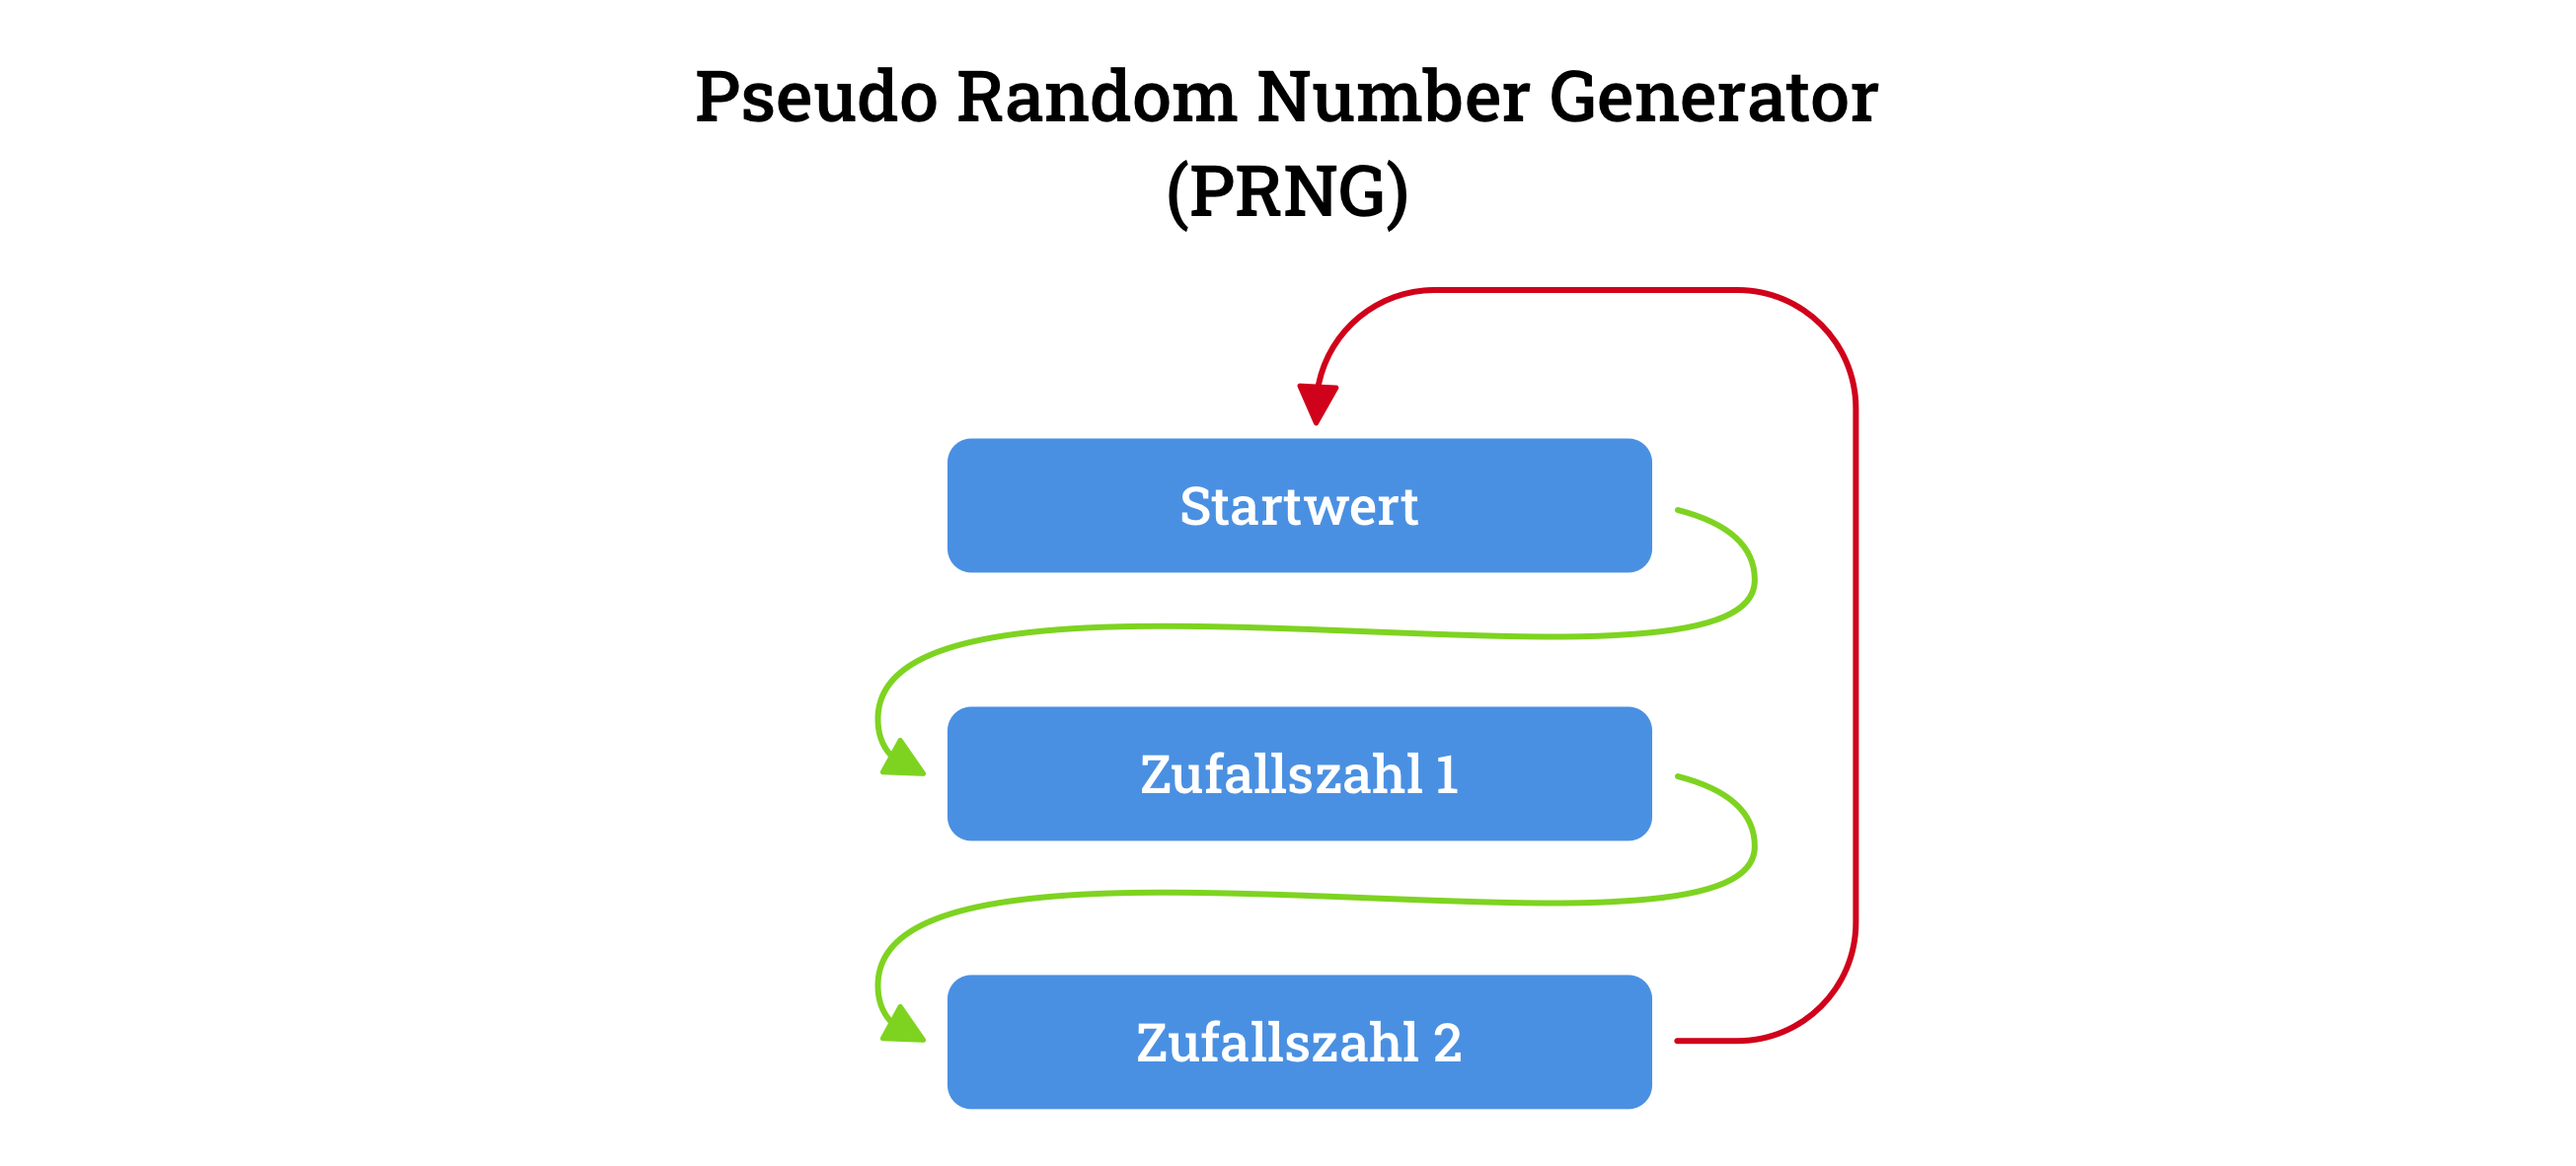
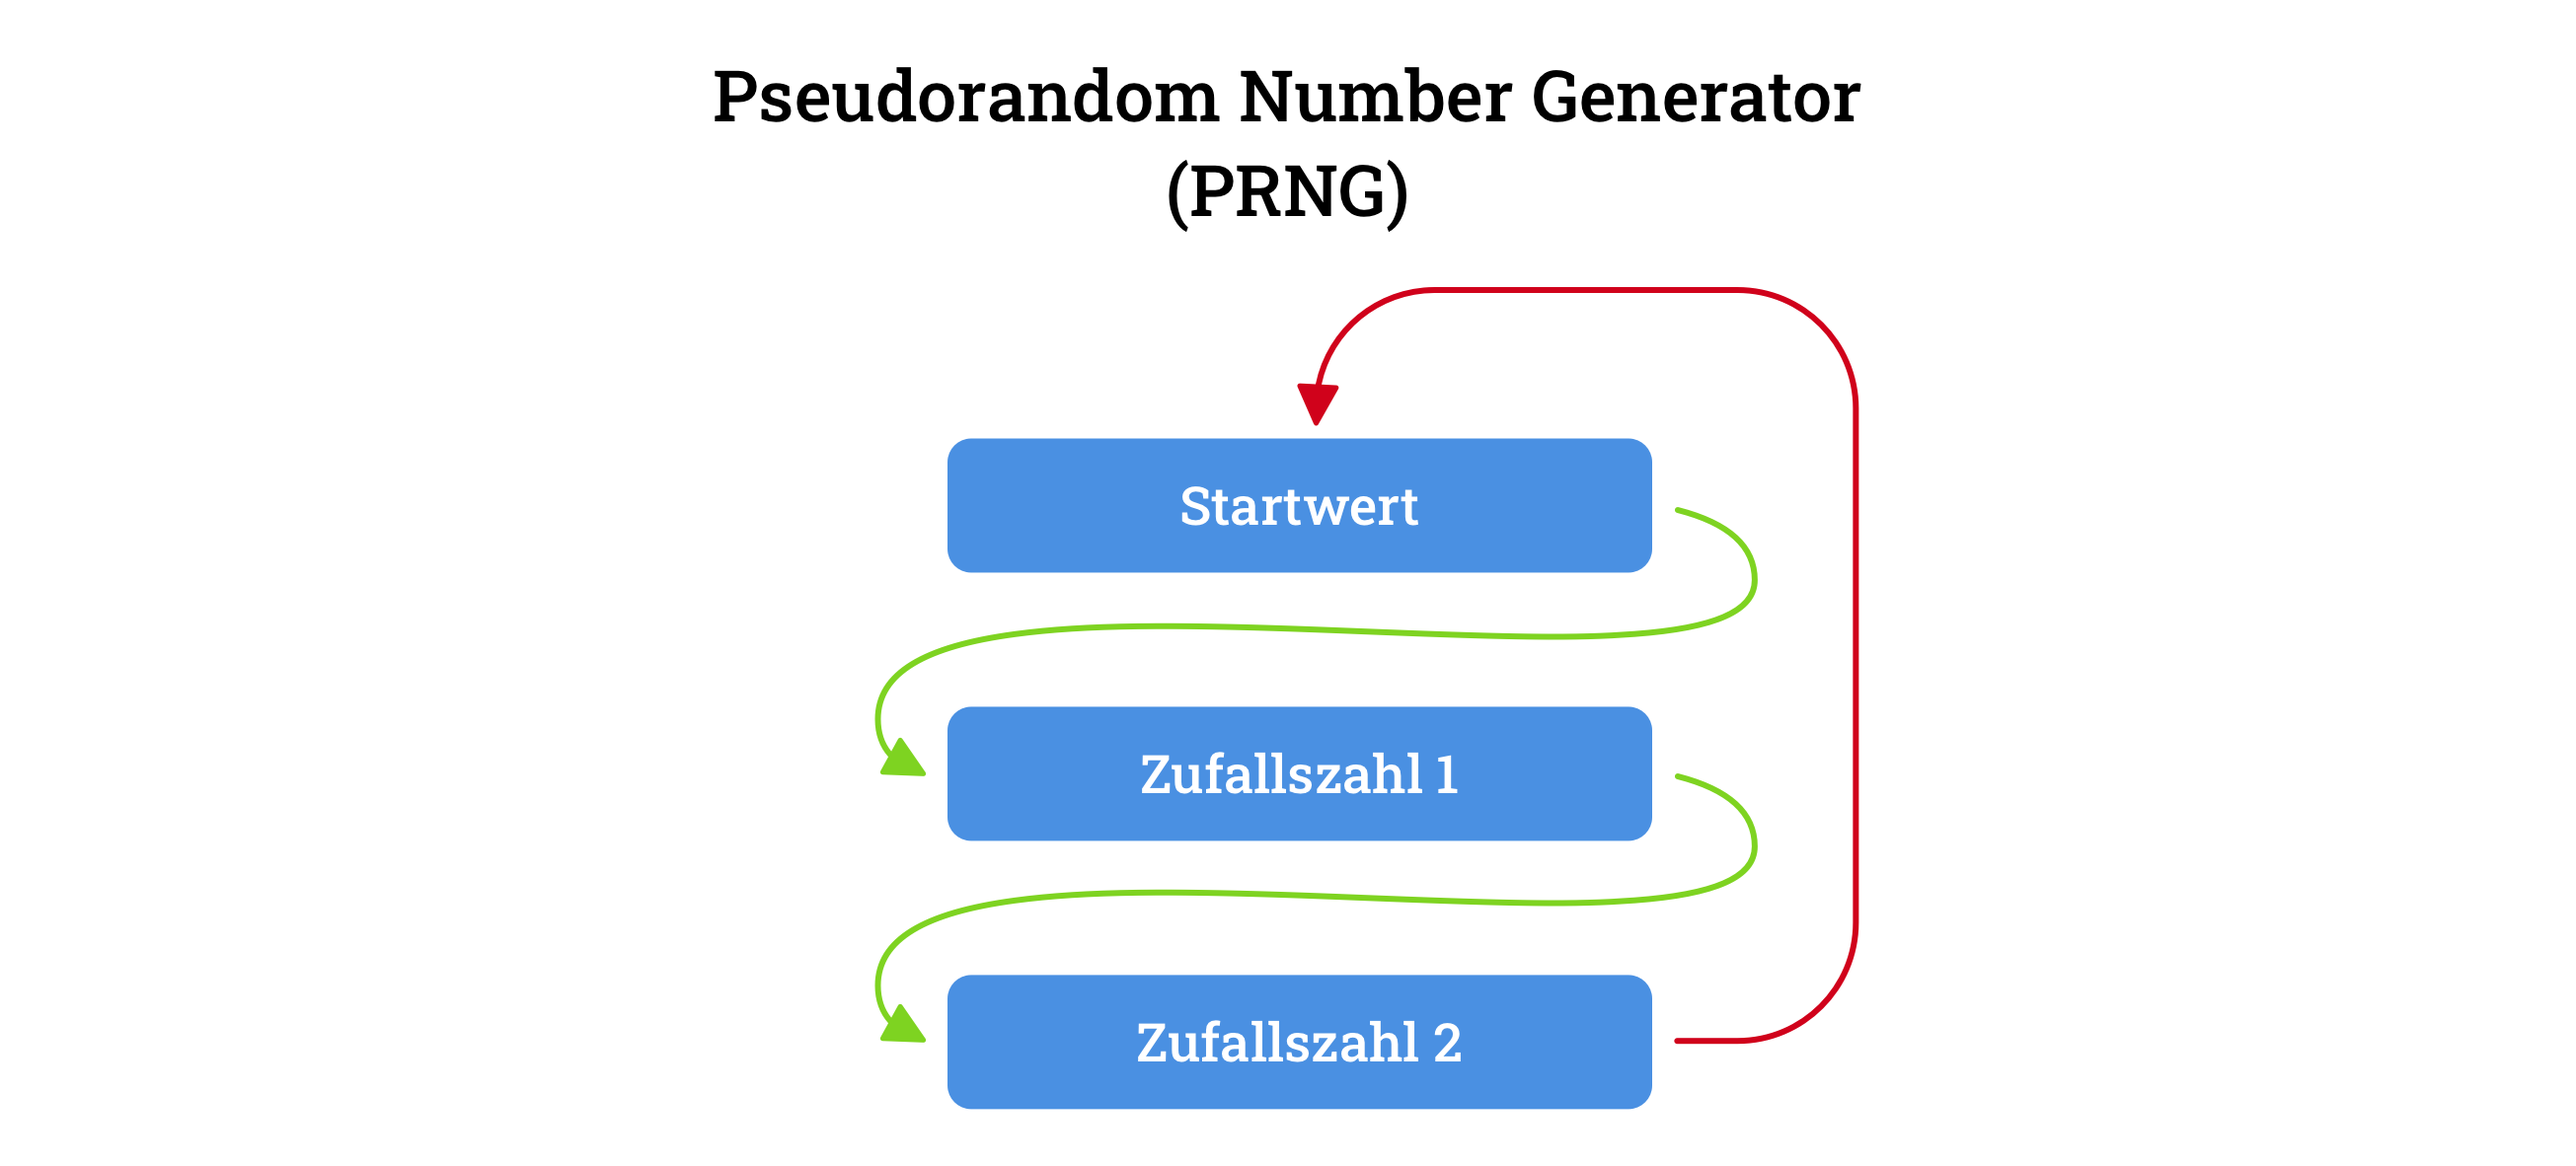
Update 8. Juli 2020 - 2

Changed region(s): [[0.2483, 0.0609, 0.7448, 0.1218]]

diff --git a/index.html b/index.html
@@ -166,15 +166,13 @@ signatur <span class="syntax-all syntax-keyword">=</span> <span class="syntax-al
 
 <p>In all meinen Code Snippets werde ich die Python Kryptographie Bibliothek „<a href="https://pypi.org/project/pycrypto/">pycrypto</a>” verwenden, da sie eine große Nutzerbasis aufweist und ziemlich einfach zu verwenden ist. Generell sollte man, beim Thema Sicherheit, allerdings vorsichtig sein welchen Code oder welche Bibliothek man verwendet. Die „pycrypto” Bibliothek scheint sehr akzeptiert zu sein, zeigt aber seid einigen Jahren keine Aktivität mehr auf. <a href="https://github.com/pycrypto/pycrypto">GitHub</a></p>
 
-<h5>Public-Private-Key</h5>
+<h5>Public-Key Verfahren</h5>
 
-<p>Das Public-Private-Key Verfahren ist ein Verschlüsslungsverfahren das Nachricht durch das generieren eines Schlüsselpaares verschlüsselt. <br/>Für dieses Verfahren werden zwei Schlüssel ein <!--<img class="icon" src="https://img.icons8.com/fluent/72/grand-master-key.png">--> <em>privater</em> und ein <!--<img class="icon" src="https://img.icons8.com/fluent/72/key-security.png">--> <em>öffentlicher</em> Schlüssel generiert.</p>
+<p>Das Public-Key Verfahren ist ein Verschlüsslungsverfahren das Nachricht durch das generieren eines Schlüsselpaares verschlüsselt. <br/>Für dieses Verfahren werden zwei Schlüssel ein <img class="icon" src="https://img.icons8.com/fluent/72/grand-master-key.png"> <em>privater</em> und ein <img class="icon" src="https://img.icons8.com/fluent/72/key-security.png"> <em>öffentlicher</em> Schlüssel generiert.</p>
 
-<p>Wie die Namen bereits andeuten ist der <!--<img class="icon" src="https://img.icons8.com/fluent/72/grand-master-key.png">--> Privat-Key unter allen umständen für sich zu behalten. Er ist der Master-Key aus welchem sich dann der öffentliche Schlüssel ableiten lässt.</p>
+<p>Wie die Namen bereits andeuten ist der Privat-Key unter allen umständen für sich zu behalten. Er ist der Master-Key aus welchem sich dann der öffentliche Schlüssel ableiten lässt.</p>
 
-<p>Man spricht von einem <em>asymmetrischen</em> Verschlüsselungsverfahren.</p>
-
-<p></p>
+<p>Man spricht von einem <em>asymmetrischen</em> Verschlüsselungsverfahren. Da die beiden Kommunikationsteilnehmer keinen gemeinsamen, geheimen Schlüssel benötigen. </p>
 
 <p>Der Private Schlüssel ist eine zufällige Abfolge an Zeichen. Für das <em>RSA-Kryptosystem</em> kommen Schlüssel mit einer Länge von 256 <a href="#keyword-byte">Bytes</a> oder 512 <a href="#keyword-byte">Bytes</a> zum Einsatz.</p>
 
@@ -207,11 +205,32 @@ signatur <span class="syntax-all syntax-keyword">=</span> <span class="syntax-al
 
 <h6>Keypair Generieren</h6>
 
-<p>Für die Erstellung des privaten Schlüssel wird ein Zufallswert benötigt. Man kann dies durch das werfen einer Münzen auf ein Blatt Papier machen. Wer allerdings nicht 2048 (RSA) mal die Münze (0 oder 1) werfen möchte, der sollte sich diesen Zufallswert mit dem Computer generieren lassen.<br/>Jedoch haben Computer, mit ihren sonst so vorhersehbareren Programmabläufen so ihre Probleme eine Zufallszahl zu generieren, weswegen die Generatoren auch <em>Pseudo Random Number Generators</em> (kurz PRNG) gennant werden.<br/>Aus einem Startwert „generieren” bzw. berechnen die Algorithmen jedes mal einen neuen Zufallswert, welcher dann wieder für den nächsten Zufallswert verwendet wird. Nach einer gewissen Periode wiederholen sich diese Zahlen weswegen es sich um einen <em>Deterministischen</em> Zufallsgenerator handelt. </p>
+<p>Für die Erstellung des privaten Schlüssel wird ein Zufallswert benötigt. Man kann dies durch das werfen einer Münzen auf ein Blatt Papier machen. Wer allerdings nicht 2048 (RSA) mal die Münze (0 oder 1) werfen möchte, der sollte sich diesen Zufallswert mit dem Computer generieren lassen.<br/>Jedoch haben Computer, mit ihren sonst so vorhersehbareren Programmabläufen so ihre Probleme eine Zufallszahl zu generieren, weswegen die Generatoren auch <em>Pseudorandom Number Generators</em> (kurz PRNG) gennant werden.<br/>Aus einem Startwert <em>Seed</em> „generieren” bzw. berechnen die Algorithmen jedes mal einen neuen Zufallswert, welcher dann wieder für den nächsten Zufallswert verwendet wird. Nach einer gewissen Periode wiederholen sich diese Zahlen weswegen es sich um einen <em>Deterministischen</em> Zufallsgenerator handelt. Dies generierten Zahlen sehen nur Zufällig aus. Bis sie sich wiederholen → <em>Pseudo</em>. <sup><a id="ffn19" href="#fn19" class="footnote">19</a></sup></p>
 
 <figure><img src="PRNG.png"/></figure>
 
-<p><sup><a id="ffn19" href="#fn19" class="footnote">19</a></sup></p>
+<p><em>Nicht deterministisch</em> werden vom Computer generierte Zahlen erst wenn ein äusserer Einfluss als Zufallsquelle mit einbezogen wird. Ein nicht deterministischer Zufallszahlengenerator gilt dann als „kryptographisch”. <br/>Einige mögliche Bezugsquellen für in Betriebssystemen sind <sup><a id="ffn20" href="#fn20" class="footnote">20</a></sup>:</p>
+
+<ul>
+	<li>Radioaktiverzerfall</li>
+	<li>Rauschen
+
+		<ul>
+			<li>Wärmerauschen</li>
+			<li>Akustisches Rauschen (Mikrofon)</li>
+			<li>Optisches Rauschen (Kamera)</li>
+		</ul></li>
+	<li>Nutzereingaben
+
+		<ul>
+			<li>Mausbewegung</li>
+			<li>Tastatureingaben</li>
+		</ul></li>
+</ul>
+
+<p></p>
+
+<p></p>
 
 <p></p>
 
@@ -586,8 +605,12 @@ async function fetchAsync (url) {
 		<p><a href="">https://www.youtube.com/watch?v=GSIDS_lvRv4</a> <a href="#ffn17">&#8617;</a></p>
 	</li>
 	<li id="fn18">??? <a href="#ffn18">&#x21A9;&#xFE0E;</a></li>
-	<li id="fn19"><p><a href="#ffn19">&#x21A9;&#xFE0E;</a></p></li>
-	<li id="fn20">??? <a href="#ffn20">&#x21A9;&#xFE0E;</a></li>
+	<li id="fn19">??? <a href="#ffn19">&#x21A9;&#xFE0E;</a></li>
+	<li id="fn20">Cellio, M. (2014): How does an operating system create entropy for random seeds?. Computer Science Stack Exchange. Zugriff: 8.7.2020
+
+		<p><a href="">https://cs.stackexchange.com/a/29881/123292</a> <a href="#ffn20">&#8617;</a></p>
+	</li>
+	<li id="fn21">??? <a href="#ffn21">&#x21A9;&#xFE0E;</a></li>
 </ol></body>
 </html>
 
